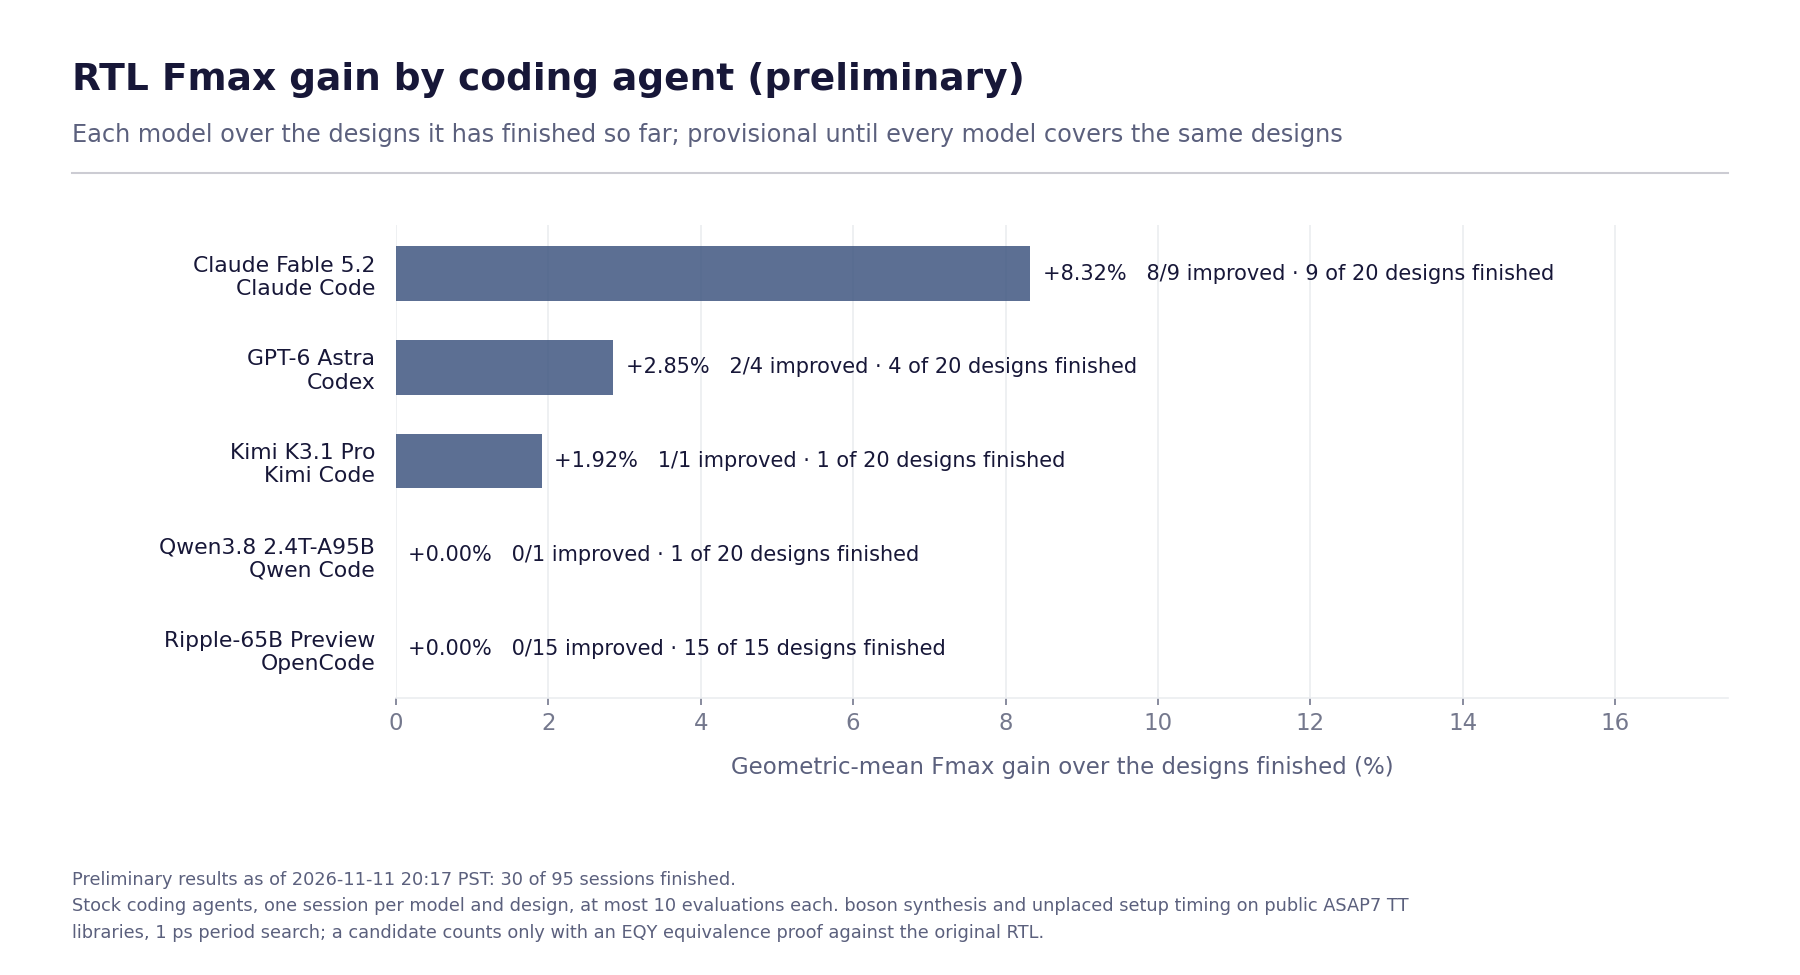
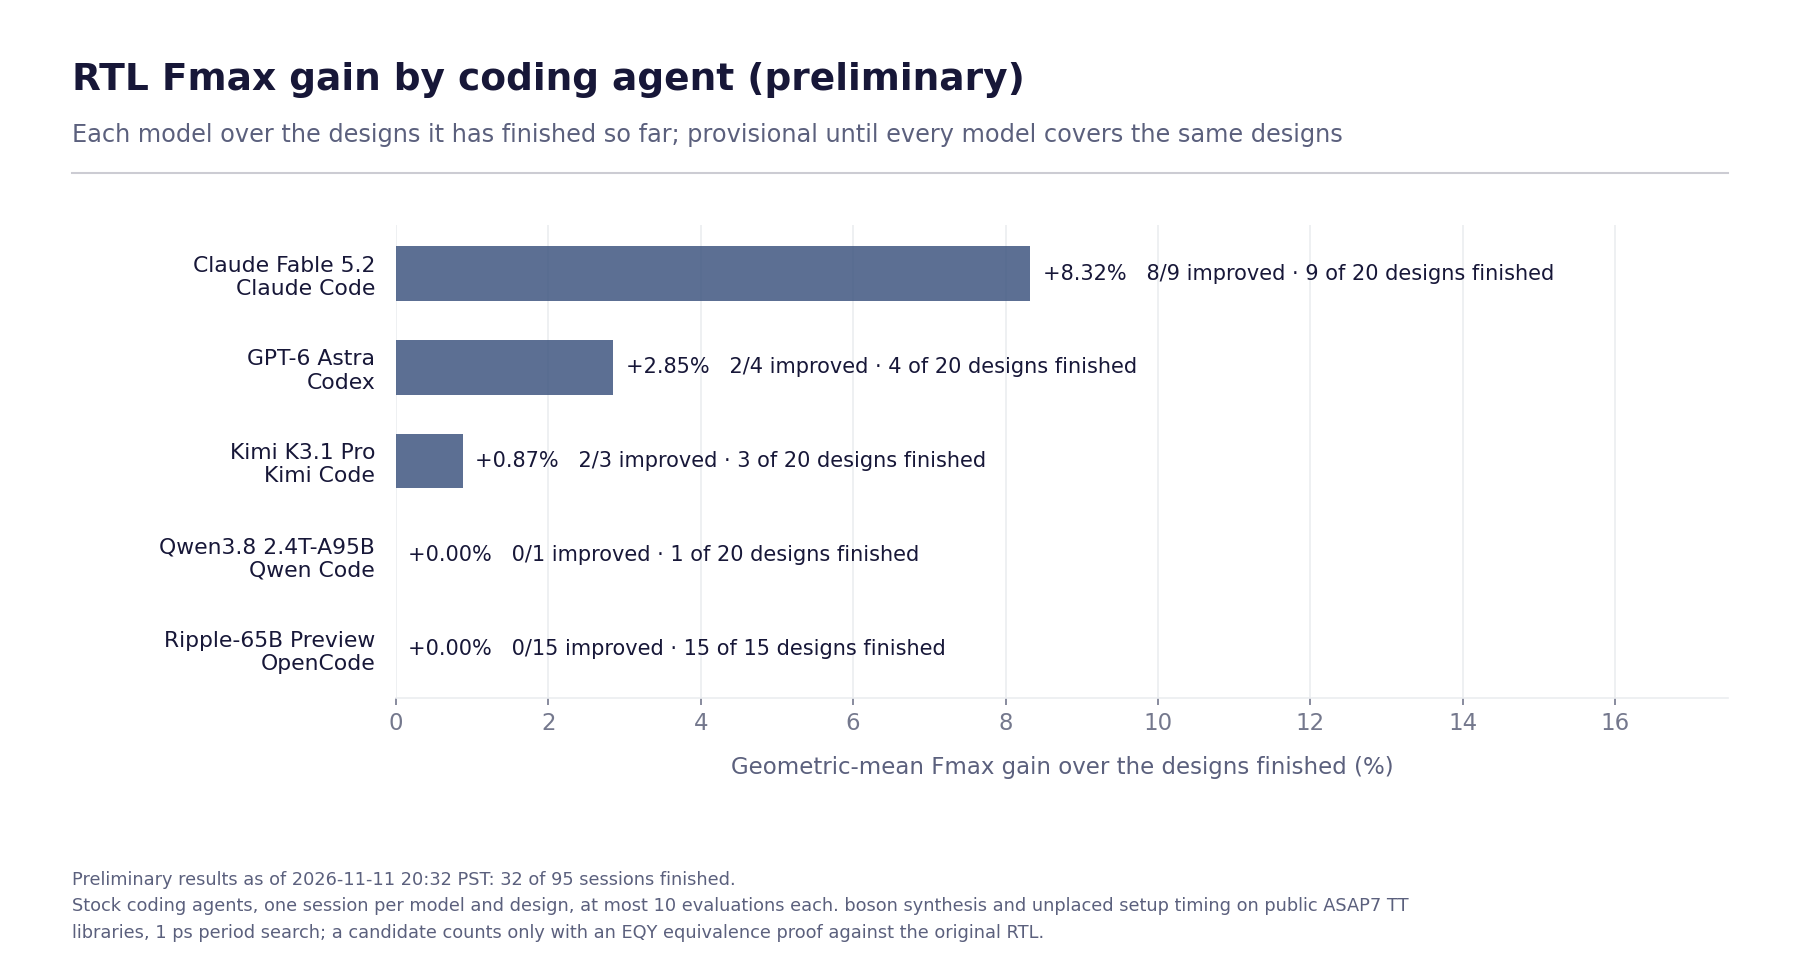
Refresh preliminary results: 32 of 95 sessions finished
Data as of 2026-11-11 20:32 PST.

Changed region(s): [[0.2489, 0.4308, 0.5911, 0.5231]]

diff --git a/README.md b/README.md
@@ -21,7 +21,7 @@ accepted only when it is proven equivalent and faster than the session's best so
 ## Results
 
 <!-- results:start -->
-**Status:** 30 of 95 sessions finished (5 models, 20 designs), as of 2026-11-11 20:17 PST.
+**Status:** 32 of 95 sessions finished (5 models, 20 designs), as of 2026-11-11 20:32 PST.
 
 ### Coverage
 
@@ -29,7 +29,7 @@ accepted only when it is proven equivalent and faster than the session's best so
 |---|---|---|---|---:|
 | Claude Fable 5.2 | Anthropic | Claude Code 2.1.322 | Official CLI signed in to a subscription | 9 / 20 |
 | GPT-6 Astra | OpenAI | Codex 0.154.0 | Official CLI signed in to a subscription | 4 / 20 |
-| Kimi K3.1 Pro | Moonshot AI | Kimi Code 2.5.2 | OpenRouter, pinned to Moonshot AI's own endpoint (MXFP4), fallbacks disabled | 1 / 20 |
+| Kimi K3.1 Pro | Moonshot AI | Kimi Code 2.5.2 | OpenRouter, pinned to Moonshot AI's own endpoint (MXFP4), fallbacks disabled | 3 / 20 |
 | Qwen3.8 2.4T-A95B | Qwen (Alibaba) | Qwen Code 0.27.1 | OpenRouter, one pinned provider (SiliconFlow, FP8) | 1 / 20 |
 | Ripple-65B Preview | Ricursive AI | OpenCode 1.19.5 | Self-hosted (SGLang 0.5.19, BF16) for its first 15 designs; OpenRouter pinned to PrimeIntellect (BF16) for later sessions | 15 / 15 |
 
@@ -39,7 +39,7 @@ accepted only when it is proven equivalent and faster than the session's best so
 |---|---|---:|---:|---:|---:|---:|
 | Claude Fable 5.2 | Claude Code | 9 / 20 | +8.32% | 8 / 9 | 4.6 | 39% (16 / 41) |
 | GPT-6 Astra | Codex | 4 / 20 | +2.85% | 2 / 4 | 3.2 | 69% (9 / 13) |
-| Kimi K3.1 Pro | Kimi Code | 1 / 20 | +1.92% | 1 / 1 | 8.0 | 62% (5 / 8) |
+| Kimi K3.1 Pro | Kimi Code | 3 / 20 | +0.87% | 2 / 3 | 6.0 | 56% (10 / 18) |
 | Qwen3.8 2.4T-A95B | Qwen Code | 1 / 20 | +0.00% | 0 / 1 | 1.0 | 100% (1 / 1) |
 | Ripple-65B Preview | OpenCode | 15 / 15 | +0.00% | 0 / 15 | 0.2 | 100% (3 / 3) |
 
@@ -65,20 +65,20 @@ Fmax gain is the geometric mean of each finished session's Fmax ratio (baseline 
 | `mempool.minpool` | 2.869 | 2 | 2.374 | +20.85% | Claude Fable 5.2 |
 | `ara.default` | 1.064 | 1 | 0.942 | +12.95% | Claude Fable 5.2 |
 | `pulp_c910.default` | 1.005 | 3 | 0.930 | +8.06% | GPT-6 Astra |
-| `spatz.default` | 2.266 | 1 | 2.266 | +0.00% | no improvement yet |
+| `spatz.default` | 2.266 | 2 | 2.250 | +0.71% | Kimi K3.1 Pro |
 | `snitch_cluster.default` | 2.128 | 4 | 1.751 | +21.53% | Claude Fable 5.2 |
-| `redmule.default` | 1.636 | 1 | 1.580 | +3.54% | GPT-6 Astra |
+| `redmule.default` | 1.636 | 2 | 1.580 | +3.54% | GPT-6 Astra |
 | `snitch_cluster.default_latch` | 2.169 | 0 | — | — | — |
 
 ### Early observations
 
 Counts over every finished session of the models above. They describe what happened; with one session per model and design they do not establish causes or rankings.
 
-- 66 candidates evaluated: 27 accepted, 5 proven equivalent but not faster than the session's best, 34 not proven (26 with a partition EQY could not prove, 2 at the proof deadline, 6 over the proof memory budget), 0 failed to compile or measure.
-- Of 30 finished sessions, 9 ended with the agent finishing on its own, 16 ran to the time budget and 5 ended with an agent error.
-- Sessions used 2.2 of the 10 allowed evaluations on average; 1 used all 10.
+- 76 candidates evaluated: 28 accepted, 8 proven equivalent but not faster than the session's best, 39 not proven (29 with a partition EQY could not prove, 4 at the proof deadline, 6 over the proof memory budget), 1 failed to compile or measure.
+- Of 32 finished sessions, 10 ended with the agent finishing on its own, 16 ran to the time budget and 6 ended with an agent error.
+- Sessions used 2.4 of the 10 allowed evaluations on average; 1 used all 10.
 - Largest single gain so far: `snitch_cluster.default` by Claude Fable 5.2, 2.128 ns to 1.751 ns (+21.53% Fmax).
-- No finished session has improved `cvfpu.fp32_fma`, `cvfpu.full`, `ibex.full`, `ibex.minimal`, `nvdla.top`, `opope.default`, `serial_link.default`, `spi_host.default`, `spatz.default` yet.
+- No finished session has improved `cvfpu.fp32_fma`, `cvfpu.full`, `ibex.full`, `ibex.minimal`, `nvdla.top`, `opope.default`, `serial_link.default`, `spi_host.default` yet.
 <!-- results:end -->
 
 ## Charts
